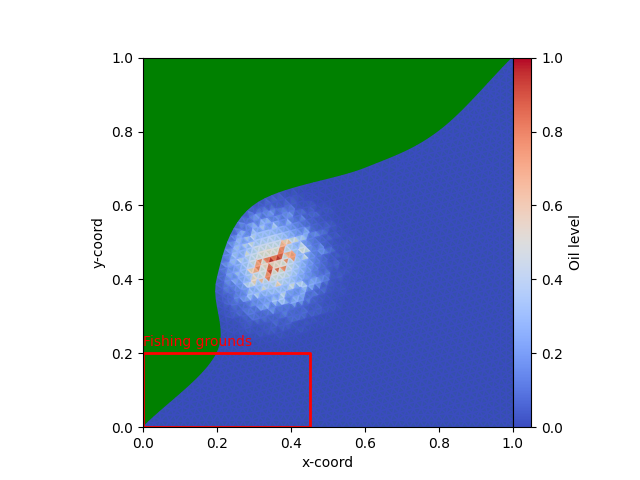
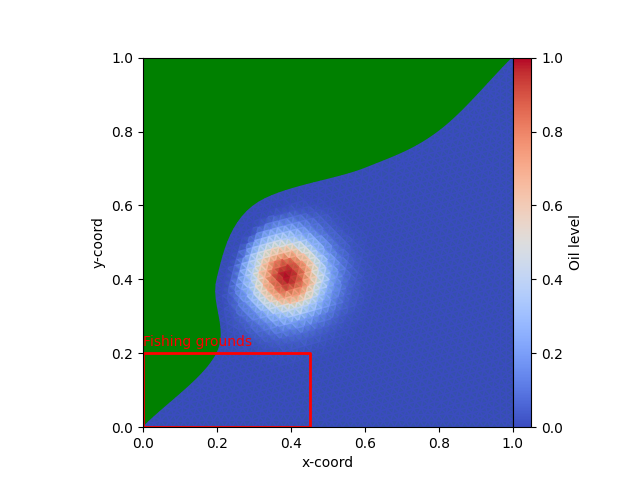
fix: Somehow fixed the problem to remove

Changed region(s): [[0.3438, 0.4062, 0.5625, 0.7188]]

diff --git a/src/controller.py b/src/controller.py
@@ -48,10 +48,6 @@ class Controller:
 
                 if triangle is other:
                     continue
-                elif triangle.get_n_borders() == 3:
-                    continue
-                elif other.get_n_borders() == 3:
-                    continue
                 elif points := triangle.check_neighbour(other.get_corner_points()):
                     border = Border(points[0], points[1], other)
                     triangle.add_border(border)
